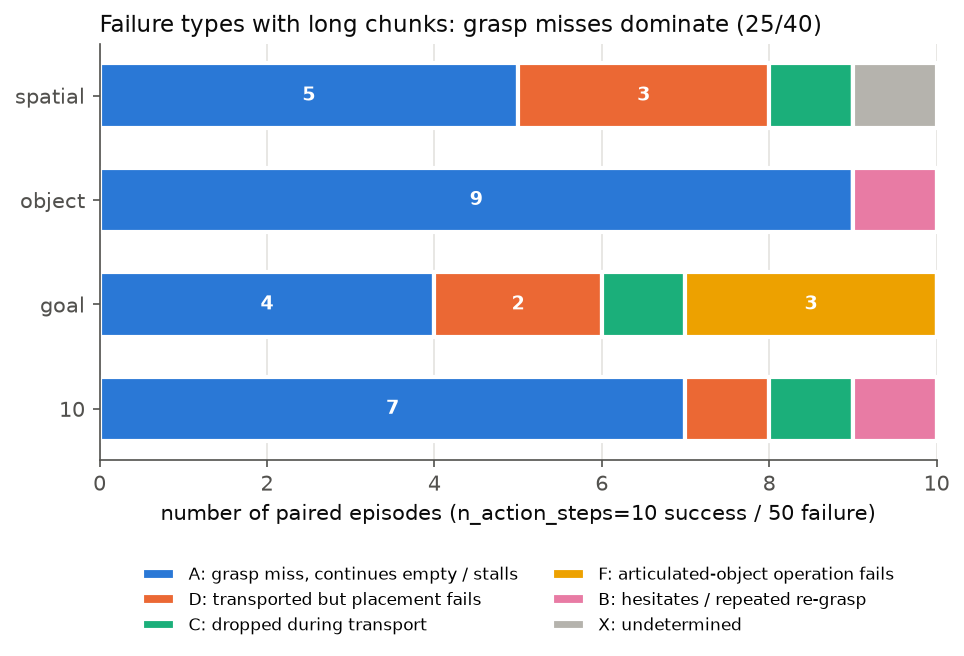
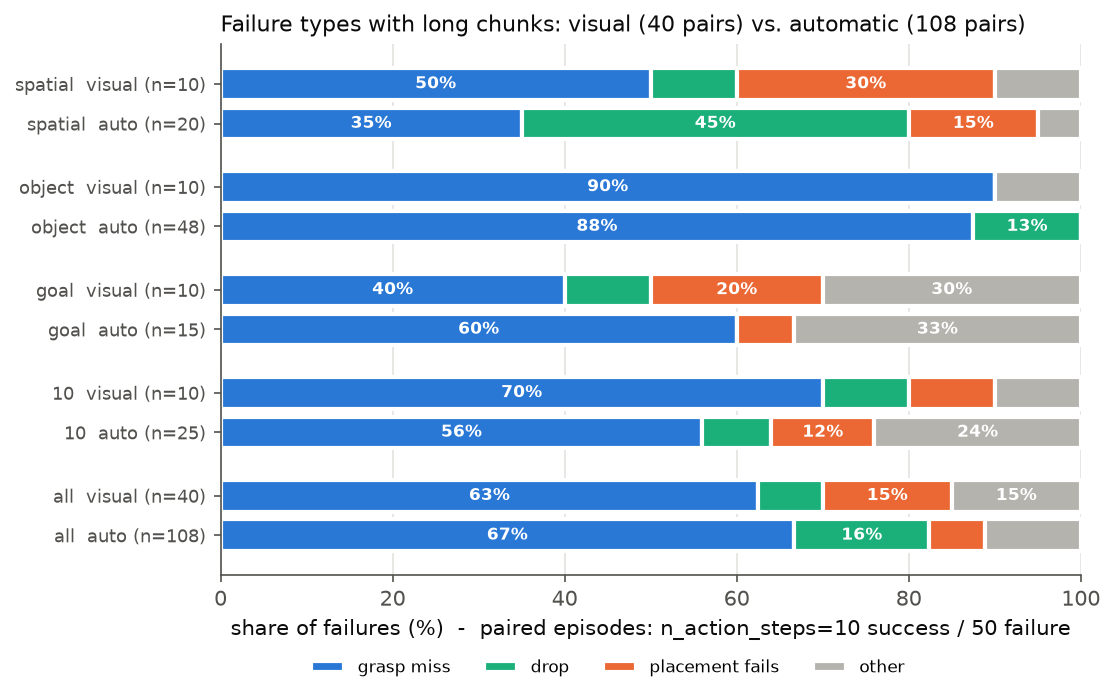
Figure: visual vs automatic failure types

diff --git a/scripts/make_figures.py b/scripts/make_figures.py
@@ -102,36 +102,44 @@ def fig2(overall: pd.DataFrame) -> None:
 
 
 def fig3() -> None:
+    """失敗の型：目視分類（pairs/*_labels.csv）と物体位置による自動分類（auto_labels_objects.csv）をスイートごとに上下に並べる。"""
     files = glob.glob(str(RES / "pairs" / "*_labels.csv"))
-    if not files:
-        print("skip fig3: no labels")
+    auto_csv = RES / "auto_labels_objects.csv"
+    if not files or not auto_csv.exists():
+        print("skip fig3: labels or auto_labels_objects.csv not found")
         return
-    d = pd.concat([pd.read_csv(f).assign(suite=Path(f).name.split("_ref")[0]) for f in files], ignore_index=True)
-    d = d[d["failure_type"].notna() & (d["failure_type"] != "")]
-    types = [("A", "A: grasp miss, continues empty / stalls"), ("D", "D: transported but placement fails"),
-             ("C", "C: dropped during transport"), ("F", "F: articulated-object operation fails"),
-             ("B", "B: hesitates / repeated re-grasp"), ("X", "X: undetermined")]
-    tcol = {"A": "#2a78d6", "D": "#eb6834", "C": "#1baf7a", "F": "#eda100", "B": "#e87ba4", "X": "#b5b3ad"}
-    ct = pd.crosstab(d["suite"], d["failure_type"]).reindex(SUITES).fillna(0)
-    fig, ax = plt.subplots(figsize=(7.2, 3.6))
-    left = pd.Series(0.0, index=ct.index)
-    for k, lab in types:
-        if k not in ct:
-            continue
-        v = ct[k]
-        ax.barh([s.replace("libero_", "") for s in ct.index], v, left=left, color=tcol[k], label=lab,
-                edgecolor="white", linewidth=2, height=0.62)
-        for i, (val, l0) in enumerate(zip(v, left)):
-            if val >= 2:
-                ax.text(l0 + val / 2, i, f"{int(val)}", ha="center", va="center", color="white", fontsize=9, fontweight="bold")
-        left += v
+    man = pd.concat([pd.read_csv(f).assign(suite=Path(f).name.split("_ref")[0]) for f in files], ignore_index=True)
+    man["c"] = man["failure_type"].map({"A": "grasp miss", "C": "drop", "D": "placement fails"}).fillna("other")
+    auto = pd.read_csv(auto_csv)
+    j = auto[auto.n_action_steps == 10].merge(auto[auto.n_action_steps == 50], on=["suite", "seed", "task_id", "episode"], suffixes=("_10", "_50"))
+    pp = j[j.success_10 & ~j.success_50 & (j.category_50 != "no_grasp_task")].copy()
+    pp["c"] = pp["category_50"].map({"MISS": "grasp miss", "DROP": "drop", "PLACE": "placement fails", "OTHER": "other"})
+    cats = ["grasp miss", "drop", "placement fails", "other"]
+    col = {"grasp miss": "#2a78d6", "drop": "#1baf7a", "placement fails": "#eb6834", "other": "#b5b3ad"}
+    fig, ax = plt.subplots(figsize=(7.4, 4.6))
+    y, yt, yl, first = 0.0, [], [], True
+    for s in SUITES + ["all"]:
+        for name, d in [("visual", man), ("auto", pp)]:
+            dd = d if s == "all" else d[d.suite == s]
+            n, vc, left = len(dd), dd["c"].value_counts(), 0.0
+            for c in cats:
+                x = 100 * vc.get(c, 0) / n if n else 0
+                ax.barh(y, x, left=left, color=col[c], edgecolor="white", linewidth=2, height=0.8, label=c if first else None)
+                if x >= 12:
+                    ax.text(left + x / 2, y, f"{int(x + 0.5)}%", ha="center", va="center", color="white", fontsize=8, fontweight="bold")
+                left += x
+            first = False
+            yt.append(y)
+            yl.append(f"{s.replace('libero_', '')}  {name} (n={n})")
+            y += 1 if name == "visual" else 1.6
+    ax.set_yticks(yt)
+    ax.set_yticklabels(yl, fontsize=8.5)
     ax.invert_yaxis()
-    ax.set_xlabel("number of paired episodes (n_action_steps=10 success / 50 failure)")
+    ax.set_xlim(0, 100)
     ax.grid(axis="y", visible=False)
-    n = len(d)
-    a = int((d["failure_type"] == "A").sum())
-    ax.set_title(f"Failure types with long chunks: grasp misses dominate ({a}/{n})", loc="left", color=INK, fontsize=11)
-    ax.legend(loc="upper center", bbox_to_anchor=(0.5, -0.22), ncol=2, fontsize=8)
+    ax.set_xlabel("share of failures (%)  -  paired episodes: n_action_steps=10 success / 50 failure")
+    ax.legend(ncol=4, loc="upper center", bbox_to_anchor=(0.45, -0.13), fontsize=8)
+    ax.set_title(f"Failure types with long chunks: visual ({len(man)} pairs) vs. automatic ({len(pp)} pairs)", loc="left", color=INK, fontsize=10.5)
     fig.savefig(OUT / "fig3_failure_types.png")
     plt.close(fig)
 
